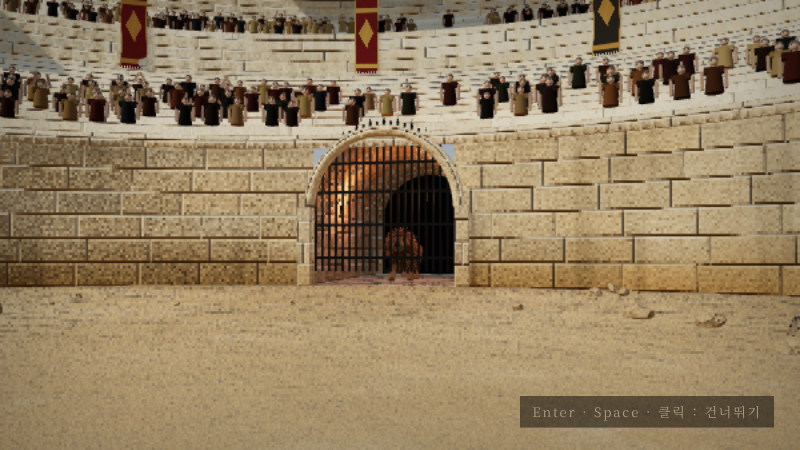
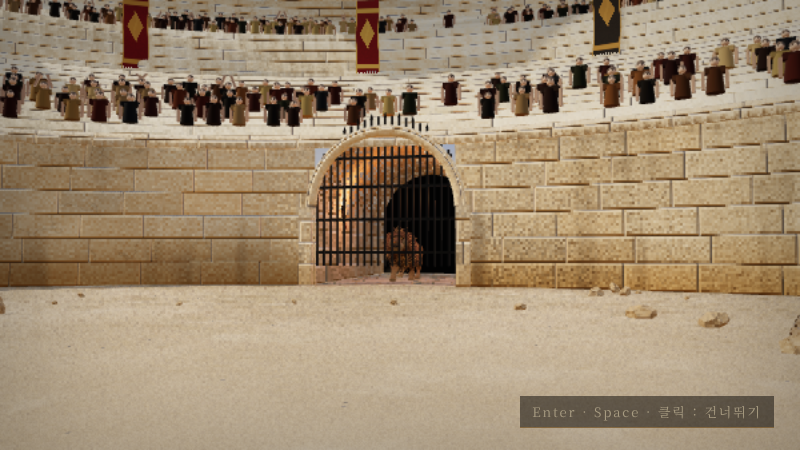
Graphics: crowd rebuild, ambient dust motes, README/ASSET_LICENSES notes on graphics limits
Claude-Session: https://claude.ai/code/session_017uNv6gtJGrk8dov2Nf54XN

diff --git a/src/render/crowd.ts b/src/render/crowd.ts
@@ -16,23 +16,23 @@ function personGeometry(detail: boolean): THREE.BufferGeometry {
     parts.push(g.index ? g.toNonIndexed() : g);
   };
   const skin: [number, number, number] = [0.62, 0.42, 0.3];
-  const torso = new THREE.CylinderGeometry(0.15, 0.2, 0.5, detail ? 8 : 6);
+  const torso = new THREE.CylinderGeometry(0.14, 0.2, 0.5, detail ? 14 : 8, 1);
   torso.translate(0, 0.4, 0);
   addPart(torso, 1, 0, [1, 1, 1]);
-  const sho = new THREE.BoxGeometry(0.42, 0.13, 0.2);
+  const sho = new THREE.CapsuleGeometry(0.075, 0.28, 3, detail ? 8 : 5).rotateZ(Math.PI / 2).scale(1, 1, 1.45);
   sho.translate(0, 0.64, 0);
   addPart(sho, 1, 0, [0.95, 0.95, 0.95]);
-  const neck = new THREE.CylinderGeometry(0.045, 0.05, 0.08, 6);
+  const neck = new THREE.CylinderGeometry(0.045, 0.05, 0.08, 8);
   neck.translate(0, 0.73, 0);
   addPart(neck, 0, 0, skin);
-  const head = new THREE.IcosahedronGeometry(0.095, detail ? 1 : 0);
+  const head = new THREE.SphereGeometry(0.095, detail ? 12 : 7, detail ? 9 : 5).scale(0.92, 1.08, 1);
   head.translate(0, 0.82, 0);
   addPart(head, 0, 0, skin);
-  const hair = new THREE.SphereGeometry(0.1, 6, 4, 0, Math.PI * 2, 0, Math.PI * 0.55);
+  const hair = new THREE.SphereGeometry(0.1, detail ? 12 : 6, detail ? 7 : 4, 0, Math.PI * 2, 0, Math.PI * 0.55);
   hair.translate(0, 0.845, -0.005);
   addPart(hair, 0, 0, [0.12, 0.09, 0.07]);
   for (const s of [-1, 1]) {
-    const arm = new THREE.BoxGeometry(0.07, detail ? 0.4 : 0.34, 0.07);
+    const arm = new THREE.CylinderGeometry(0.035, 0.03, detail ? 0.4 : 0.34, detail ? 7 : 5);
     arm.translate(s * 0.245, 0.66 - (detail ? 0.2 : 0.17), 0.0);
     addPart(arm, 0.4, 1, skin);
   }
@@ -67,9 +67,9 @@ function crowdMaterial(shared: SharedUniforms, cheer: { value: number }): THREE.
     sh.vertexShader = sh.vertexShader
       .replace('#include <common>', `#include <common>
         attribute float aMask; attribute float aArm; attribute vec3 iTint; attribute float iSeed;
-        uniform float uCheer; uniform float uTime; varying vec3 vTint; varying float vMask;`)
+        uniform float uCheer; uniform float uTime; varying vec3 vTint; varying float vMask; varying float vY; varying float vSk;`)
       .replace('#include <begin_vertex>', `#include <begin_vertex>
-        vTint = iTint; vMask = aMask;
+        vTint = iTint; vMask = aMask; vY = position.y; vSk = fract(iSeed * 3.17);
         float sd = fract(iSeed * 13.7);
         float act = step(1.0 - uCheer * 0.9, sd);
         float ph = uTime * (4.5 + 3.0 * fract(iSeed * 7.1)) + iSeed * 20.0;
@@ -85,9 +85,12 @@ function crowdMaterial(shared: SharedUniforms, cheer: { value: number }): THREE.
         transformed.y += act * 0.07 * abs(sin(ph)) + calm * 0.5;
         transformed.x += calm * (position.y);`);
     sh.fragmentShader = sh.fragmentShader
-      .replace('#include <common>', '#include <common>\nvarying vec3 vTint; varying float vMask;')
+      .replace('#include <common>', '#include <common>\nvarying vec3 vTint; varying float vMask; varying float vY; varying float vSk;')
       .replace('#include <color_fragment>', `#include <color_fragment>
-        diffuseColor.rgb *= mix(vec3(1.0), vTint, vMask);`);
+        diffuseColor.rgb *= mix(vec3(1.0), vTint, vMask);
+        // 위쪽(어깨·머리)은 밝게, 아래 옷자락은 어둡게: 간이 차폐
+        diffuseColor.rgb *= mix(0.7, 1.05, clamp((vY + 0.05) / 0.9, 0.0, 1.0));
+        diffuseColor.rgb *= mix(vec3(1.0), vec3(0.78 + 0.5 * vSk, 0.85 + 0.25 * vSk, 0.8 + 0.3 * vSk), 1.0 - vMask);`);
     void NOISE_GLSL;
   };
   mat.customProgramCacheKey = () => 'crowd';

diff --git a/src/render/gameScene.ts b/src/render/gameScene.ts
@@ -64,6 +64,7 @@ export class GameScene {
   private clawTrails = [new SwordTrail([1.0, 0.72, 0.55], 0.26, 1.3), new SwordTrail([1.0, 0.72, 0.55], 0.26, 1.3)];
   private eyePulse = 0;
   private emberAcc = 0;
+  private moteAcc = 0;
   private ringDustAcc = 0;
   private lastLionWin = -1;
   private sun: THREE.DirectionalLight;
@@ -553,6 +554,13 @@ export class GameScene {
     } else this.lastLionWin = -1;
     for (const t of this.clawTrails) t.update(dt);
 
+    // 대기 중 먼지 입자: 플레이어 주변 공중에 항상 조금씩 떠 있다
+    this.moteAcc += dt * 14 * QUALITY[this.quality].particles;
+    while (this.moteAcc >= 1) {
+      this.moteAcc -= 1;
+      const a = Math.random() * Math.PI * 2, r = 1 + Math.random() * 9;
+      this.particles.mote(new V3(sim.player.pos.x + Math.cos(a) * r, 0.3 + Math.random() * 3.2, sim.player.pos.z + Math.sin(a) * r));
+    }
     // 2페이즈: 몸에서 불씨가 피어오른다
     if (l.phase === 2 && alive && sim.phase === 'fight') {
       this.emberAcc += dt * 26 * QUALITY[this.quality].particles;

diff --git a/src/render/particles.ts b/src/render/particles.ts
@@ -95,6 +95,12 @@ export class Particles {
   private static sand = new THREE.Color(0.7, 0.57, 0.38);
   private static sandL = new THREE.Color(0.82, 0.7, 0.5);
 
+  /** 햇살 속에 떠다니는 미세 먼지(대기감). 느리게 흩날린다 */
+  mote(pos: THREE.Vector3) {
+    this.spawn('dust', pos, new THREE.Vector3((Math.random() - 0.3) * 0.35, (Math.random() - 0.4) * 0.12, (Math.random() - 0.5) * 0.3),
+      5 + Math.random() * 4, 0.035 + Math.random() * 0.04, 0.0, new THREE.Color(1.0, 0.86, 0.62), 0.22 + Math.random() * 0.2, 0.3, 0);
+  }
+
   /** 발걸음/착지 먼지. strength 0..1 */
   puff(pos: THREE.Vector3, strength: number, dir?: THREE.Vector3, count = 0) {
     const n = count || Math.max(1, Math.round(2 + strength * 6));

diff --git a/README.md b/README.md
@@ -160,7 +160,8 @@ tests/           vitest (규칙/물리/IK/봇 전투)
 
 ## 제한 사항 / 미검증 항목
 
-- **성능**: 실제 GPU 에서의 FPS 는 **측정하지 못했습니다.** 이 환경에는 GPU 가 없어 SwiftShader(소프트웨어 렌더)로만 돌렸고 약 2fps 수준이라 e2e 에서는 시뮬레이션을 `simAdvance` 로 가속했습니다. Low/Medium/High 프리셋(털 셸 수, 군중 밀도, 그림자 해상도, 렌더 해상도)은 구현되어 있으나 프리셋별 FPS 수치는 없습니다.
+- **그래픽 수준 ("언리얼 엔진 5.x급" 요청에 대해)**: 언리얼 엔진 5 의 Nanite(가상 지오메트리)·Lumen(실시간 GI)·스캔 에셋·MetaHuman 은 WebGL 브라우저 게임과 코드 생성 에셋으로는 **재현할 수 없습니다.** 대신 WebGL2 에서 가능한 범위에서 최대한 끌어올렸습니다: HDR(HalfFloat) 렌더 타깃 + MSAA, 화면공간 AO(깊이 기반, 하프 해상도 + 양방향 블러), 블룸 체인, 태양 갓레이, 깊이 기반 피사계 심도, 높이 안개 + 태양 산란, ACES 톤매핑/그레이딩/비네트/필름 그레인/색수차, 절차적 하늘(레일리·미 산란, HDR 태양, fbm 구름) + 반구광·바운스광·IBL, 4096 PCF 그림자, MeshPhysicalMaterial(클리어코트/시튼) + 피부 SSS 근사 + 털 투과/림, 해상도 1.4배로 재생성한 사자·검투사 메쉬, 공중 먼지 입자. 결과는 "2020년대 초반 WebGL 데모" 수준이며 UE5 와는 격차가 큽니다. 품질 단계는 낮음/보통/높음/울트라이고, 낮음은 후처리 없이 직접 렌더링합니다. 적응형 해상도는 실 GPU 에서만 동작하며(자동화 브라우저에서는 꺼짐) **실제 GPU 에서 검증하지 못했습니다.**
+- **성능**: 실제 GPU 에서의 FPS 는 **측정하지 못했습니다.** 이 환경에는 GPU 가 없어 SwiftShader(소프트웨어 렌더)로만 돌렸고 약 2fps 수준이라 e2e 에서는 시뮬레이션을 `simAdvance` 로 가속했습니다. Low/Medium/High/Ultra 프리셋(털 셸 수, 군중 밀도, 그림자 해상도, 렌더 해상도)은 구현되어 있으나 프리셋별 FPS 수치는 없습니다.
 - **오디오**: 소리가 실제로 어떻게 들리는지는 사람이 듣고 확인하지 못했습니다(헤드리스). 이벤트 → 사운드 연결, 볼륨 저장, 오디오 소스 누적 없음, 그리고 보스전 음악의 스펙트럼 분포·루프 이음매·클리핑 여부만 자동/수치로 검증했습니다. "긴장감 있게 들리는가"는 주관적 판단이라 검증하지 못했습니다. 사운드는 numpy/scipy 합성이라 실제 녹음/연주보다 질감이 단순합니다.
 - **조작감/타격감**: 코드·수치·정지 화면 캡처로만 확인했습니다. 실제 손맛(입력 지연, 발놀림이 자연스러운지, 슬로모/카메라 킥의 강도)은 GPU 가 있는 환경에서 직접 플레이해 보지 못했습니다. 너무 강하면 설정의 *카메라 흔들림* 을 낮추면 슬로모/번쩍임/카메라 킥이 함께 약해지거나 꺼집니다.
 - **모델 품질**: 라이선스가 확실한 외부 리깅 에셋을 받을 수 없어 사자와 검투사를 SDF 로 직접 모델링했습니다. 사자 얼굴·털, 인체 비례·손가락은 상용 AAA 에셋 수준이 아닙니다. 털은 셸 셰이더 + 갈기 카드 근사입니다.

diff --git a/ASSET_LICENSES.md b/ASSET_LICENSES.md
@@ -47,3 +47,7 @@ OFL 은 글꼴의 포함·재배포를 허용하며, 글꼴 자체를 단독 판
 
 ## 필요 시 교체 방법
 외부 에셋을 쓰고 싶다면 CC0/CC-BY 모델을 `public/assets/models/` 에 넣고 `src/render/assets.ts` 의 `MANIFEST` 와 본 이름 매핑(`src/rig/*.ts`)을 맞추면 됩니다. 이때 이 문서에 파일명·제작자·출처·라이선스·수정 내용·표시 의무를 추가하세요.
+
+## 그래픽 업그레이드 (후처리/하늘/재질)
+
+- 후처리(SSAO, 블룸, 갓레이, DOF, ACES 그레이딩), 절차적 하늘, 재질 셰이더, 군중 지오메트리, 사자·검투사 메쉬(해상도 상향 재생성)는 모두 이 저장소의 코드(`src/render/*`, `tools/gen-*.ts`)로 직접 작성·생성한 것입니다. 새로 추가한 외부 에셋·텍스처·HDRI 는 없고, 외부 이미지를 내려받거나 핫링크하지 않습니다.
